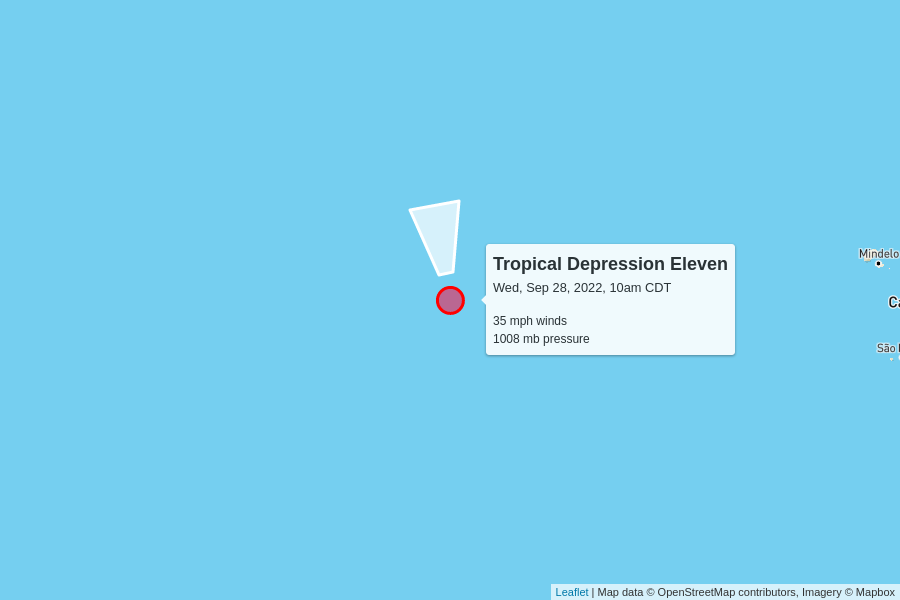
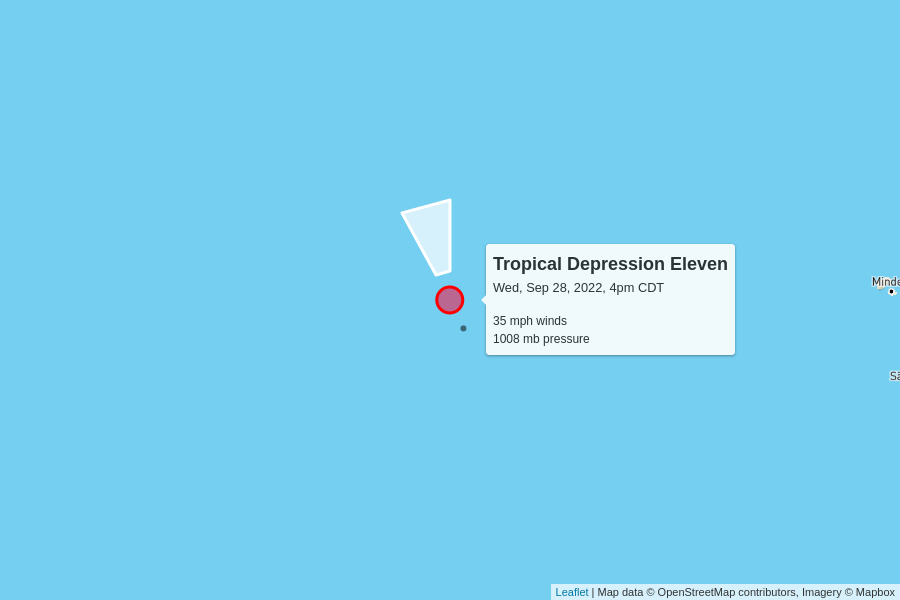
automatic update

diff --git a/docs/index.html b/docs/index.html
@@ -100,7 +100,7 @@
         <td colspan="6" class="storm category-4" >
           <h2>
             Hurricane Ian - Category 4
-            <p class="updated">last updated <span data-time>2022-09-28T20:00:00.000Z</span></p>
+            <p class="updated">last updated <span data-time>2022-09-28T21:00:00.000Z</span></p>
           </h2>
         </td>
       </tr>
@@ -115,12 +115,12 @@
       </tr>
       <tr>
         <td class="spacer"></td>
-        <td>145 mph</td>
-        <td>942 mb</td>
+        <td>140 mph</td>
+        <td>945 mb</td>
         <td>
-          9 mph to the north-northeast
+          8 mph to the north-northeast
           <br/>
-          <span style="display: inline-block; font-size: 1.5em; transform: rotate(15deg);">↑</span>
+          <span style="display: inline-block; font-size: 1.5em; transform: rotate(20deg);">↑</span>
         </td>
         <td><a href="https://raw.githubusercontent.com/mgwalker/atlantic-hurricanes/main/data/csv/AL092022.csv">AL092022.csv</a></td>
         <td><a href="https://www.nhc.noaa.gov/archive/2022/IAN.shtml?">NHC advisories</a></td>
@@ -144,7 +144,7 @@
         <td colspan="6" class="storm category-0" >
           <h2>
             Tropical Depression Eleven
-            <p class="updated">last updated <span data-time>2022-09-28T15:00:00.000Z</span></p>
+            <p class="updated">last updated <span data-time>2022-09-28T21:00:00.000Z</span></p>
           </h2>
         </td>
       </tr>
@@ -162,9 +162,9 @@
         <td>35 mph</td>
         <td>1008 mb</td>
         <td>
-          9 mph to the north
+          10 mph to the north-northwest
           <br/>
-          <span style="display: inline-block; font-size: 1.5em; transform: rotate(350deg);">↑</span>
+          <span style="display: inline-block; font-size: 1.5em; transform: rotate(345deg);">↑</span>
         </td>
         <td><a href="https://raw.githubusercontent.com/mgwalker/atlantic-hurricanes/main/data/csv/AL112022.csv">AL112022.csv</a></td>
         <td><a href="https://www.nhc.noaa.gov/archive/2022/ELEVEN.shtml?">NHC advisories</a></td>
